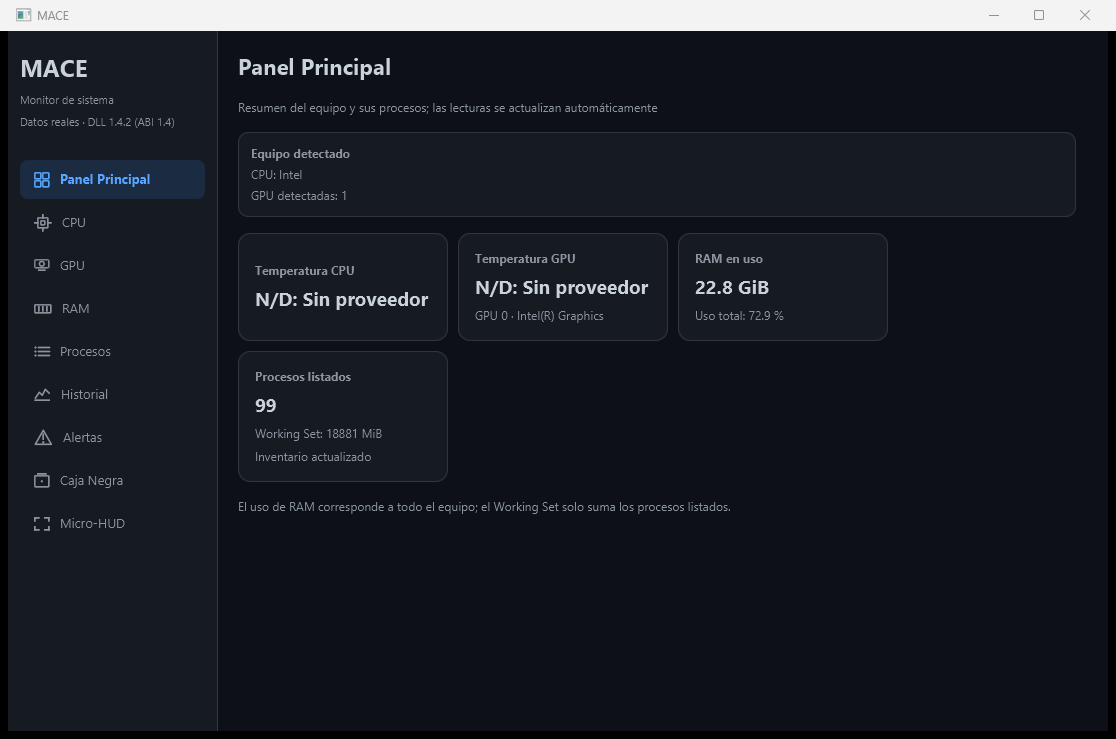
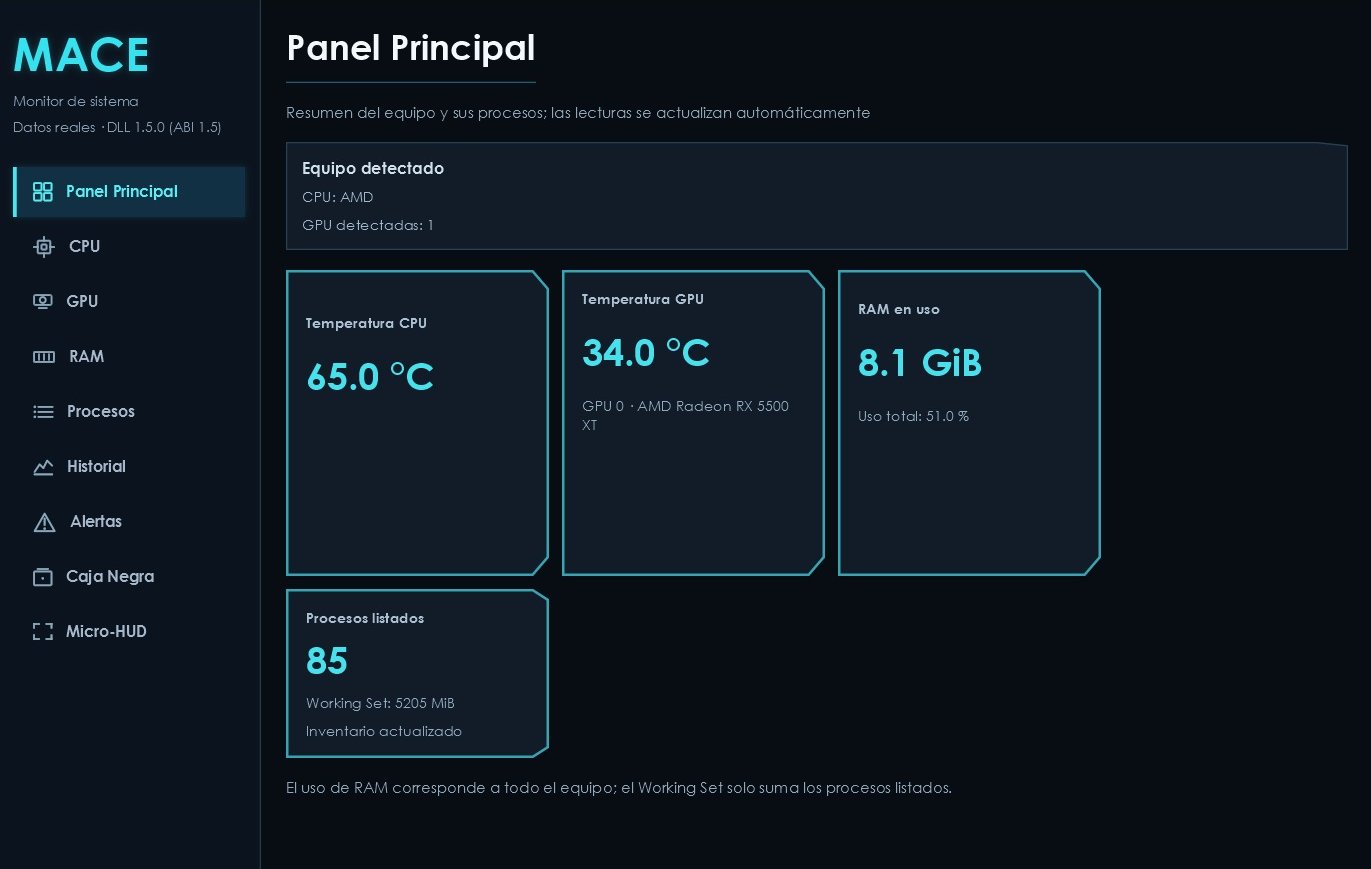
docs(pagina): rediseno para la version 1.1 con lecturas reales, novedades y PawnIO opcional

diff --git a/docs/index.html b/docs/index.html
@@ -26,6 +26,9 @@
       --trace: #4c8df6;
       --nd: #e0b45c;
       --focus: #f2a900;
+      --ok: #3fbf7f;
+      --info-bg: #e3edfb;
+      --info-ink: #173b6e;
     }
     @media (prefers-color-scheme: dark) {
       :root {
@@ -40,6 +43,8 @@
         --caution-ink: #f3d08a;
         --panel: #0a121c;
         --panel-grid: #1c2938;
+        --info-bg: #13243a;
+        --info-ink: #b9d3f7;
       }
     }
 
@@ -65,7 +70,7 @@
     /* Encabezado */
     .hero { padding: 3.5rem 0 3rem; }
     .hero-grid { display: grid; gap: 2.5rem; align-items: end; }
-    @media (min-width: 60rem) { .hero-grid { grid-template-columns: 1fr 1.15fr; } }
+    @media (min-width: 60rem) { .hero-grid { grid-template-columns: 1.1fr 1fr; } }
     .wordmark {
       margin: 0;
       font-size: clamp(4.5rem, 14vw, 8.5rem);
@@ -163,24 +168,94 @@
     pre { background: var(--paper-raised); border: 1px solid var(--rule); border-radius: 0.4rem; padding: 0.8rem 1rem; overflow-x: auto; }
 
     footer { padding: 2rem 0 3rem; border-top: 1px solid var(--rule); color: var(--ink-soft); font-size: 0.95rem; }
+    .footer-grid { display: flex; flex-wrap: wrap; gap: 0.75rem 2rem; justify-content: space-between; align-items: baseline; }
+    .footer-links { display: flex; flex-wrap: wrap; gap: 0.5rem 1.25rem; margin: 0; padding: 0; list-style: none; }
+
+    /* Barra superior */
+    .topbar {
+      position: sticky; top: 0; z-index: 10;
+      background: color-mix(in srgb, var(--paper) 88%, transparent);
+      backdrop-filter: saturate(1.4) blur(8px);
+      -webkit-backdrop-filter: saturate(1.4) blur(8px);
+      border-bottom: 1px solid var(--rule);
+    }
+    .topbar .wrap { display: flex; align-items: center; gap: 1.5rem; min-height: 3.5rem; }
+    .brand { font-weight: 800; font-stretch: 125%; font-size: 1.2rem; letter-spacing: -0.01em; color: var(--ink); text-decoration: none; }
+    .nav { display: none; gap: 1.25rem; margin: 0; padding: 0; list-style: none; }
+    .nav a { color: var(--ink-soft); text-decoration: none; font-size: 0.95rem; }
+    .nav a:hover { color: var(--ink); }
+    @media (min-width: 52rem) { .nav { display: flex; } }
+    .topbar .button { margin-left: auto; padding: 0.5rem 0.95rem; font-size: 0.95rem; }
+
+    /* Etiqueta de novedad y botón secundario */
+    .badge {
+      display: inline-flex; align-items: center; gap: 0.45rem;
+      margin: 0 0 1.25rem; padding: 0.3rem 0.75rem 0.3rem 0.4rem;
+      border: 1px solid var(--rule); border-radius: 999px;
+      background: var(--paper-raised); color: var(--ink-soft);
+      font-size: 0.85rem; text-decoration: none;
+    }
+    .badge b { background: var(--signal); color: var(--signal-ink); border-radius: 999px; padding: 0.05rem 0.55rem; font-size: 0.78rem; }
+    .actions { display: flex; flex-wrap: wrap; gap: 0.75rem; align-items: center; }
+    .button.secondary { background: transparent; color: var(--ink); box-shadow: inset 0 0 0 1px var(--rule);
+                        padding: 0.95rem 1.1rem; font-size: 1rem; }
+    .button.secondary:hover { box-shadow: inset 0 0 0 1px var(--ink-soft); }
+    .button:not(.secondary):hover { filter: brightness(1.08); }
+    .readouts dd.ok { color: var(--ok); }
+    .instrument-head { display: flex; justify-content: space-between; gap: 1rem; font-size: 0.8rem; color: var(--panel-soft); margin-bottom: 0.5rem; }
+    .live { display: inline-flex; align-items: center; gap: 0.4rem; }
+    .live::before { content: ""; width: 0.5rem; height: 0.5rem; border-radius: 50%; background: var(--ok); }
+
+    /* Tarjetas de novedades */
+    .cards { display: grid; gap: 1rem; margin-top: 1.5rem; }
+    @media (min-width: 40rem) { .cards { grid-template-columns: repeat(2, 1fr); } }
+    @media (min-width: 64rem) { .cards { grid-template-columns: repeat(4, 1fr); } }
+    .card { background: var(--paper-raised); border: 1px solid var(--rule); border-radius: 0.6rem; padding: 1.25rem; }
+    .card .icon { width: 2.5rem; height: 2.5rem; border-radius: 0.5rem; display: grid; place-items: center;
+                  background: color-mix(in srgb, var(--signal) 14%, transparent); color: var(--signal); margin-bottom: 0.9rem; }
+    .card .icon svg { width: 1.35rem; height: 1.35rem; }
+    .card p { margin: 0; color: var(--ink-soft); font-size: 0.97rem; }
+
+    .note.info { background: var(--info-bg); color: var(--info-ink); }
   </style>
 </head>
 <body>
+  <nav class="topbar" aria-label="Principal">
+    <div class="wrap">
+      <a class="brand" href="#">MACE</a>
+      <ul class="nav">
+        <li><a href="#novedades">Novedades</a></li>
+        <li><a href="#instalar">Instalar</a></li>
+        <li><a href="#que-mide">Qué mide</a></li>
+        <li><a href="#requisitos">Requisitos</a></li>
+      </ul>
+      <a class="button" id="download-top" href="https://github.com/DanielDdeY/MACE/releases">Descargar</a>
+    </div>
+  </nav>
+
   <header class="hero">
     <div class="wrap hero-grid">
       <div>
+        <a class="badge" href="#novedades"><b>Nuevo</b> Versión 1.1: temperatura real de CPU y GPU</a>
         <h1 class="wordmark">MACE</h1>
         <p class="lede">Monitor de hardware y procesos para Windows</p>
         <p class="measure">Lee la CPU, cada tarjeta gráfica, la memoria y los programas abiertos de tu PC. Si un sensor no está disponible, lo dice en lugar de inventar un número, y nunca cierra un programa sin que tú lo confirmes.</p>
-        <a class="button" id="download" href="https://github.com/DanielDdeY/MACE/releases">
-          <svg viewBox="0 0 24 24" aria-hidden="true" fill="none" stroke="currentColor" stroke-width="2.2" stroke-linecap="round" stroke-linejoin="round"><path d="M12 3v12m0 0-5-5m5 5 5-5M4 20h16"/></svg>
-          <span id="download-label">Descargar para Windows</span>
-        </a>
+        <div class="actions">
+          <a class="button" id="download" href="https://github.com/DanielDdeY/MACE/releases">
+            <svg viewBox="0 0 24 24" aria-hidden="true" fill="none" stroke="currentColor" stroke-width="2.2" stroke-linecap="round" stroke-linejoin="round"><path d="M12 3v12m0 0-5-5m5 5 5-5M4 20h16"/></svg>
+            <span id="download-label">Descargar para Windows</span>
+          </a>
+          <a class="button secondary" href="https://github.com/DanielDdeY/MACE">
+            <svg viewBox="0 0 24 24" aria-hidden="true" fill="none" stroke="currentColor" stroke-width="2" stroke-linecap="round" stroke-linejoin="round"><path d="m8 7-5 5 5 5M16 7l5 5-5 5"/></svg>
+            Código fuente
+          </a>
+        </div>
         <p class="release-line" id="release-line" aria-live="polite">Windows 10 y 11 de 64 bits.</p>
       </div>
 
-      <figure class="instrument" aria-label="Ejemplo de lecturas reales de MACE">
-        <svg class="trace" viewBox="0 0 580 190" role="img" aria-label="Uso de CPU durante 30 segundos, entre 3 y 24 por ciento">
+      <figure class="instrument" aria-label="Lecturas reales de MACE en un equipo AMD">
+        <div class="instrument-head"><span class="live">Datos reales · DLL 1.5.0</span><span>Ryzen + Radeon RX 5500 XT</span></div>
+        <svg class="trace" viewBox="0 0 580 190" role="img" aria-label="Gráfico ilustrativo de una lectura a lo largo de 30 segundos">
           <g class="grid">
             <line x1="0" y1="10" x2="580" y2="10"/><line x1="0" y1="55" x2="580" y2="55"/>
             <line x1="0" y1="100" x2="580" y2="100"/><line x1="0" y1="145" x2="580" y2="145"/>
@@ -189,16 +264,45 @@
           <polyline class="line" points="0,88 20,159 40,155 60,163 80,161 100,159 120,151 140,130 160,147 180,138 200,155 220,136 240,138 260,142 280,163 300,147 320,159 340,163 360,157 380,140 400,130 420,155 440,168 460,155 480,138 500,163 520,168 540,170 560,155 580,152"/>
         </svg>
         <dl class="readouts">
-          <div><dt>Uso de CPU</dt><dd>5,4 %</dd></div>
-          <div><dt>RAM en uso</dt><dd>74 %</dd></div>
-          <div><dt>Temperatura de CPU</dt><dd class="nd">N/D<small>sin proveedor de sensor</small></dd></div>
+          <div><dt>Temperatura de CPU</dt><dd class="ok">65,0 °C</dd></div>
+          <div><dt>Temperatura de GPU</dt><dd class="ok">34,0 °C</dd></div>
+          <div><dt>RAM en uso</dt><dd>8,1 GiB<small>51 % del total</small></dd></div>
         </dl>
-        <figcaption>Lecturas reales de un Intel Core Ultra 7 265 sin permisos de administrador.</figcaption>
+        <figcaption>Lecturas reales de MACE 1.1 abierto como administrador, con PawnIO instalado. El gráfico es ilustrativo.</figcaption>
       </figure>
     </div>
   </header>
 
   <main>
+    <section id="novedades">
+      <div class="wrap">
+        <h2>Novedades de la versión 1.1</h2>
+        <p class="measure">La lectura de sensores se apoya ahora en LibreHardwareMonitor, una biblioteca especializada, en lugar de integraciones propias por fabricante.</p>
+        <div class="cards">
+          <div class="card">
+            <div class="icon"><svg viewBox="0 0 24 24" aria-hidden="true" fill="none" stroke="currentColor" stroke-width="2" stroke-linecap="round" stroke-linejoin="round"><path d="M14 14.8V4a2 2 0 1 0-4 0v10.8a4 4 0 1 0 4 0Z"/></svg></div>
+            <h3>Temperatura real</h3>
+            <p>CPU Intel y AMD, y GPU Radeon, leídas mediante LibreHardwareMonitor. Verificada en equipos Intel y AMD.</p>
+          </div>
+          <div class="card">
+            <div class="icon"><svg viewBox="0 0 24 24" aria-hidden="true" fill="none" stroke="currentColor" stroke-width="2" stroke-linecap="round" stroke-linejoin="round"><rect x="3" y="4" width="18" height="14" rx="2"/><rect x="12" y="7" width="6" height="4" rx="1"/></svg></div>
+            <h3>Micro-HUD</h3>
+            <p>Una ventana pequeña, siempre visible, con las métricas que elijas encima de tus juegos o programas.</p>
+          </div>
+          <div class="card">
+            <div class="icon"><svg viewBox="0 0 24 24" aria-hidden="true" fill="none" stroke="currentColor" stroke-width="2" stroke-linecap="round" stroke-linejoin="round"><path d="M12 3 4 6v6c0 4.5 3.4 8.3 8 9 4.6-.7 8-4.5 8-9V6l-8-3Z"/></svg></div>
+            <h3>Controlador opcional</h3>
+            <p>PawnIO solo hace falta para la temperatura y la potencia de la CPU. Sin él, todo lo demás funciona.</p>
+          </div>
+          <div class="card">
+            <div class="icon"><svg viewBox="0 0 24 24" aria-hidden="true" fill="none" stroke="currentColor" stroke-width="2" stroke-linecap="round" stroke-linejoin="round"><path d="M20 6 9 17l-5-5"/></svg></div>
+            <h3>Publicación verificada</h3>
+            <p>Cada versión se compila y prueba automáticamente en GitHub Actions antes de publicarse, con su SHA-256.</p>
+          </div>
+        </div>
+      </div>
+    </section>
+
     <section id="instalar">
       <div class="wrap">
         <h2>Instalar en tu PC</h2>
@@ -219,6 +323,10 @@
         <div class="note">
           <strong>Si Windows dice «Windows protegió tu PC»</strong>
           El instalador no está firmado con un certificado comercial. Pulsa «Más información» y luego «Ejecutar de todas formas». Puedes comprobar que el archivo es el original con su SHA-256, más abajo.
+        </div>
+        <div class="note info">
+          <strong>Opcional: temperatura y potencia de la CPU</strong>
+          Requieren el controlador PawnIO. Su instalador oficial, sin modificar, viene en la carpeta de MACE: <code>app\prerequisites\PawnIO_setup.exe</code>. MACE nunca lo instala por su cuenta; si no lo instalas, verás el motivo en lugar de la temperatura.
         </div>
         <p class="measure">¿Solo quieres ver la interfaz? Abre <strong>MACE-Preview</strong> desde el menú Inicio: muestra datos simulados y no pide permisos de administrador.</p>
       </div>
@@ -244,9 +352,9 @@
           </table>
         </div>
         <figure class="shot">
-          <img src="img/mace-panel.png" width="1116" height="739" loading="lazy"
-               alt="Panel principal de MACE: CPU Intel, una GPU detectada, 22,8 GiB de RAM en uso y 99 procesos; las temperaturas aparecen como N/D, sin proveedor.">
-          <figcaption>Panel principal en un equipo Intel. Las temperaturas aparecen como N/D porque ese equipo no tiene un proveedor de sensores instalado.</figcaption>
+          <img src="img/mace-panel.png" width="1371" height="869" loading="lazy"
+               alt="Panel principal de MACE 1.1 en un equipo AMD: temperatura de CPU 65,0 °C, temperatura de la GPU Radeon RX 5500 XT 34,0 °C, 8,1 GiB de RAM en uso y 85 procesos.">
+          <figcaption>Panel principal de MACE 1.1 en un equipo AMD con Radeon RX 5500 XT, abierto como administrador y con PawnIO instalado.</figcaption>
         </figure>
       </div>
     </section>
@@ -296,8 +404,13 @@
   </main>
 
   <footer>
-    <div class="wrap">
-      MACE es un proyecto académico de la UTP. El código está en <a href="https://github.com/DanielDdeY/MACE">GitHub</a>.
+    <div class="wrap footer-grid">
+      <span>MACE es un proyecto académico de la UTP.</span>
+      <ul class="footer-links">
+        <li><a href="https://github.com/DanielDdeY/MACE">Código fuente</a></li>
+        <li><a href="https://github.com/DanielDdeY/MACE/releases">Versiones</a></li>
+        <li><a href="https://github.com/DanielDdeY/MACE/issues">Reportar un problema</a></li>
+      </ul>
     </div>
   </footer>
 
@@ -318,6 +431,7 @@
         download.setAttribute('aria-disabled', 'true');
         download.removeAttribute('href');
         label.textContent = 'Próximamente';
+        document.getElementById('download-top').removeAttribute('href');
         line.textContent = message;
       }
 
@@ -336,6 +450,7 @@
           return;
         }
         download.href = setup.browser_download_url;
+        document.getElementById('download-top').href = setup.browser_download_url;
         var date = new Date(release.published_at).toLocaleDateString('es', { day: 'numeric', month: 'long', year: 'numeric' });
         line.textContent = 'Versión ' + release.tag_name.replace(/^v/i, '') + ', ' + megabytes(setup.size)
             + ', publicada el ' + date + '. Windows 10 y 11 de 64 bits.';
